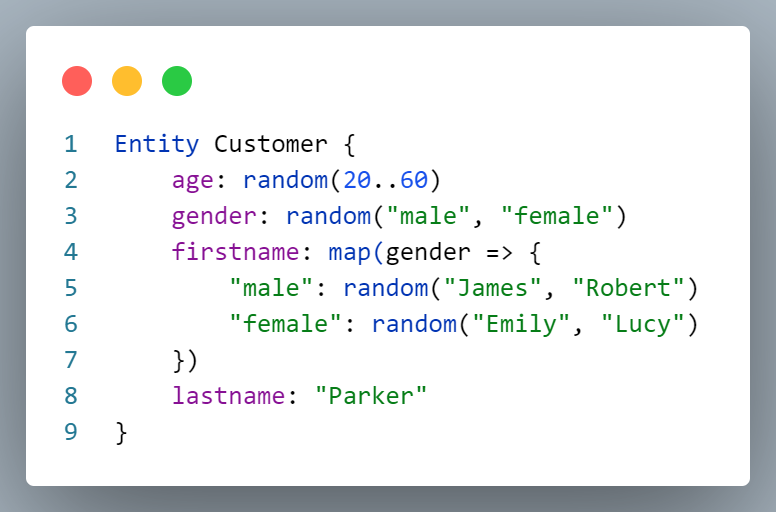
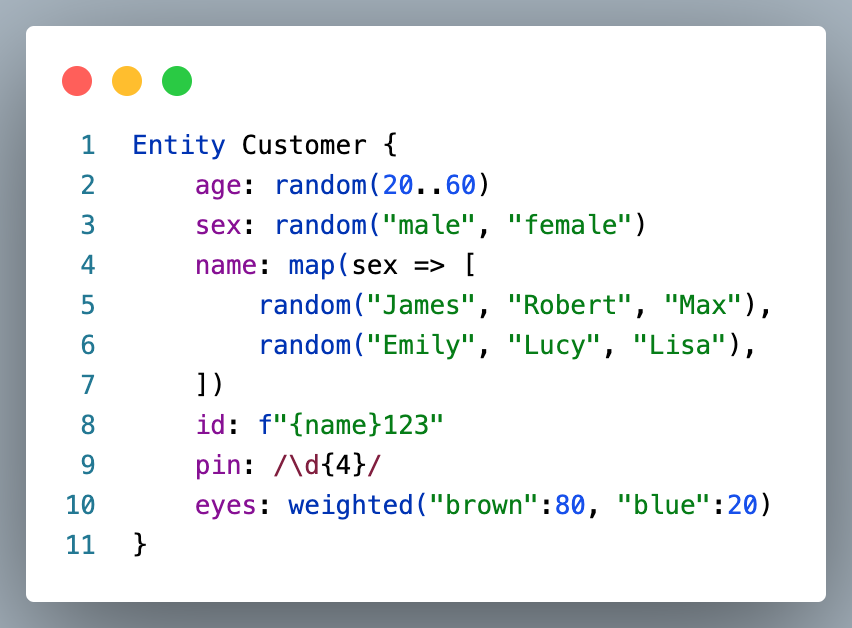
Adapt examples

diff --git a/packages/ranger-lang/README.md b/packages/ranger-lang/README.md
@@ -10,16 +10,16 @@ This example Ranger file
 produces such an output
 
 ```json
-{"age":21,"gender":"male","firstname":"James","lastname":"Parker"}
-{"age":58,"gender":"male","firstname":"James","lastname":"Parker"}
-{"age":26,"gender":"female","firstname":"Emily","lastname":"Parker"}
-{"age":51,"gender":"male","firstname":"James","lastname":"Parker"}
-{"age":59,"gender":"male","firstname":"Robert","lastname":"Parker"}
-{"age":60,"gender":"female","firstname":"Lucy","lastname":"Parker"}
-{"age":41,"gender":"male","firstname":"Robert","lastname":"Parker"}
-{"age":51,"gender":"female","firstname":"Lucy","lastname":"Parker"}
-{"age":41,"gender":"male","firstname":"James","lastname":"Parker"}
-{"age":39,"gender":"male","firstname":"Robert","lastname":"Parker"}
+{"age":37,"sex":"female","name":"Lucy","id":"Lucy123","pin":"1683","eyes":"brown"}
+{"age":57,"sex":"male","name":"Robert","id":"Robert123","pin":"4242","eyes":"brown"}
+{"age":42,"sex":"female","name":"Lisa","id":"Lisa123","pin":"2016","eyes":"brown"}
+{"age":60,"sex":"female","name":"Emily","id":"Emily123","pin":"8119","eyes":"brown"}
+{"age":50,"sex":"male","name":"Max","id":"Max123","pin":"4061","eyes":"brown"}
+{"age":54,"sex":"male","name":"Robert","id":"Robert123","pin":"5378","eyes":"brown"}
+{"age":52,"sex":"female","name":"Emily","id":"Emily123","pin":"4765","eyes":"brown"}
+{"age":38,"sex":"male","name":"Robert","id":"Robert123","pin":"8901","eyes":"brown"}
+{"age":39,"sex":"female","name":"Emily","id":"Emily123","pin":"6529","eyes":"blue"}
+{"age":28,"sex":"male","name":"Max","id":"Max123","pin":"6623","eyes":"brown"}
 ```
 
 Find more examples [here](https://github.com/ben5311/ranger2/tree/main/examples).

diff --git a/packages/ranger-vscode/README.md b/packages/ranger-vscode/README.md
@@ -10,16 +10,16 @@ This example Ranger file
 produces such an output
 
 ```json
-{"age":21,"gender":"male","firstname":"James","lastname":"Parker"}
-{"age":58,"gender":"male","firstname":"James","lastname":"Parker"}
-{"age":26,"gender":"female","firstname":"Emily","lastname":"Parker"}
-{"age":51,"gender":"male","firstname":"James","lastname":"Parker"}
-{"age":59,"gender":"male","firstname":"Robert","lastname":"Parker"}
-{"age":60,"gender":"female","firstname":"Lucy","lastname":"Parker"}
-{"age":41,"gender":"male","firstname":"Robert","lastname":"Parker"}
-{"age":51,"gender":"female","firstname":"Lucy","lastname":"Parker"}
-{"age":41,"gender":"male","firstname":"James","lastname":"Parker"}
-{"age":39,"gender":"male","firstname":"Robert","lastname":"Parker"}
+{"age":37,"sex":"female","name":"Lucy","id":"Lucy123","pin":"1683","eyes":"brown"}
+{"age":57,"sex":"male","name":"Robert","id":"Robert123","pin":"4242","eyes":"brown"}
+{"age":42,"sex":"female","name":"Lisa","id":"Lisa123","pin":"2016","eyes":"brown"}
+{"age":60,"sex":"female","name":"Emily","id":"Emily123","pin":"8119","eyes":"brown"}
+{"age":50,"sex":"male","name":"Max","id":"Max123","pin":"4061","eyes":"brown"}
+{"age":54,"sex":"male","name":"Robert","id":"Robert123","pin":"5378","eyes":"brown"}
+{"age":52,"sex":"female","name":"Emily","id":"Emily123","pin":"4765","eyes":"brown"}
+{"age":38,"sex":"male","name":"Robert","id":"Robert123","pin":"8901","eyes":"brown"}
+{"age":39,"sex":"female","name":"Emily","id":"Emily123","pin":"6529","eyes":"blue"}
+{"age":28,"sex":"male","name":"Max","id":"Max123","pin":"6623","eyes":"brown"}
 ```
 
 Find more examples [here](https://github.com/ben5311/ranger2/tree/main/examples).

diff --git a/README.md b/README.md
@@ -10,16 +10,16 @@ This example Ranger file
 produces such an output
 
 ```json
-{"age":21,"gender":"male","firstname":"James","lastname":"Parker"}
-{"age":58,"gender":"male","firstname":"James","lastname":"Parker"}
-{"age":26,"gender":"female","firstname":"Emily","lastname":"Parker"}
-{"age":51,"gender":"male","firstname":"James","lastname":"Parker"}
-{"age":59,"gender":"male","firstname":"Robert","lastname":"Parker"}
-{"age":60,"gender":"female","firstname":"Lucy","lastname":"Parker"}
-{"age":41,"gender":"male","firstname":"Robert","lastname":"Parker"}
-{"age":51,"gender":"female","firstname":"Lucy","lastname":"Parker"}
-{"age":41,"gender":"male","firstname":"James","lastname":"Parker"}
-{"age":39,"gender":"male","firstname":"Robert","lastname":"Parker"}
+{"age":37,"sex":"female","name":"Lucy","id":"Lucy123","pin":"1683","eyes":"brown"}
+{"age":57,"sex":"male","name":"Robert","id":"Robert123","pin":"4242","eyes":"brown"}
+{"age":42,"sex":"female","name":"Lisa","id":"Lisa123","pin":"2016","eyes":"brown"}
+{"age":60,"sex":"female","name":"Emily","id":"Emily123","pin":"8119","eyes":"brown"}
+{"age":50,"sex":"male","name":"Max","id":"Max123","pin":"4061","eyes":"brown"}
+{"age":54,"sex":"male","name":"Robert","id":"Robert123","pin":"5378","eyes":"brown"}
+{"age":52,"sex":"female","name":"Emily","id":"Emily123","pin":"4765","eyes":"brown"}
+{"age":38,"sex":"male","name":"Robert","id":"Robert123","pin":"8901","eyes":"brown"}
+{"age":39,"sex":"female","name":"Emily","id":"Emily123","pin":"6529","eyes":"blue"}
+{"age":28,"sex":"male","name":"Max","id":"Max123","pin":"6623","eyes":"brown"}
 ```
 
 Find more examples [here](examples).

diff --git a/examples/README.md b/examples/README.md
@@ -1,0 +1,15 @@
+# Examples
+
+This folder contains sample `.ranger` files that demonstrate Ranger Language features.
+
+1. Clone the repository
+
+    ```bash
+    git clone https://github.com/ben5311/ranger2
+    ```
+
+2. Install the [Visual Studio Code Extension](../packages/ranger-vscode/README.md#visual-studio-code-extension).
+
+3. Open the [examples](.) folder in Visual Studio Code.
+
+4. Play around.
